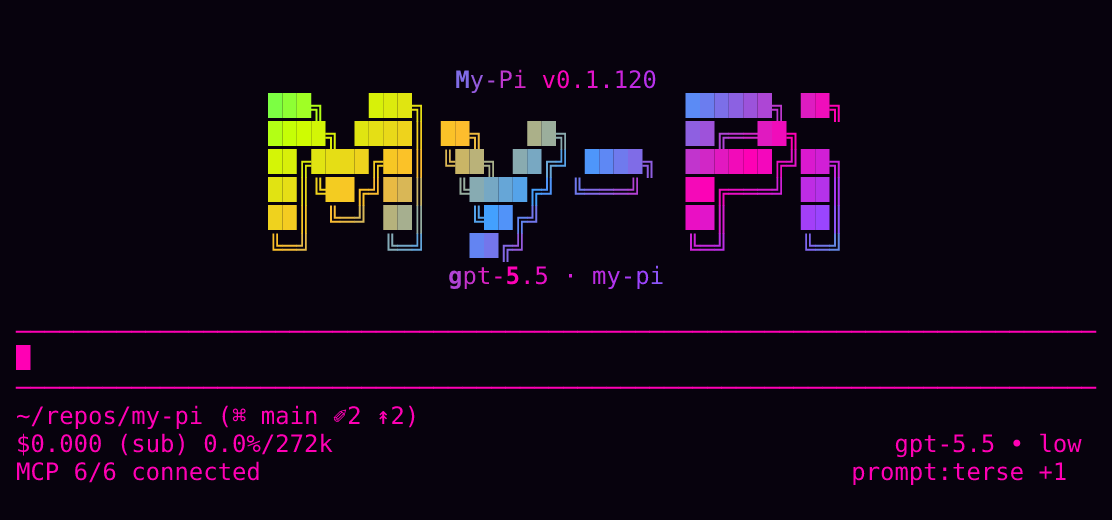
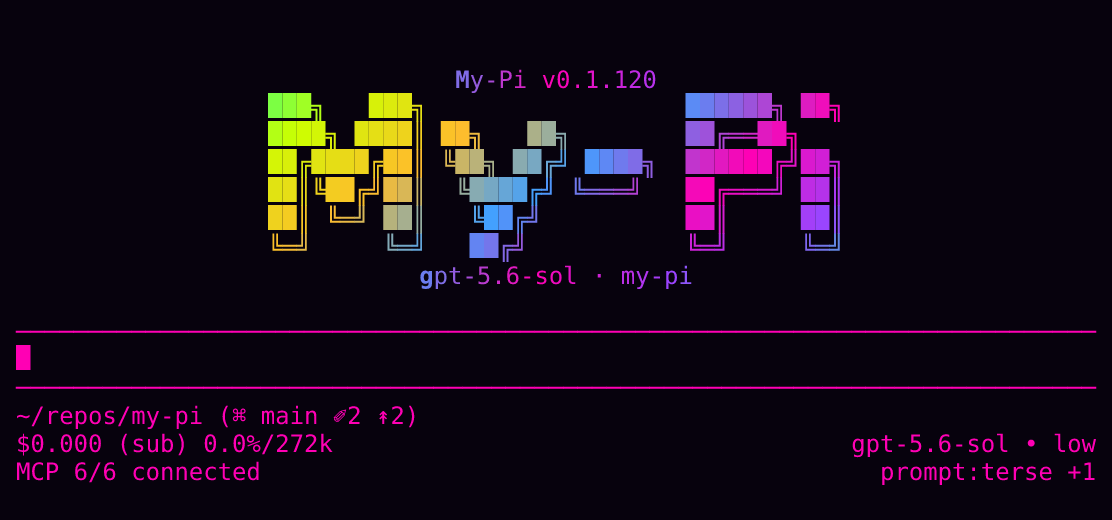
fix: align startup preview footer

Changed region(s): [[0.7644, 0.8308, 1.0, 0.9231], [0.3669, 0.4923, 0.6421, 0.5538]]

diff --git a/scripts/generate-startup-preview.ts b/scripts/generate-startup-preview.ts
@@ -20,7 +20,7 @@ const ANSI_PREFIX_PATTERN = new RegExp(`^${ESC}\\[[0-9;]*m`);
 const ANSI_CAPTURE_PREFIX_PATTERN = new RegExp(
 	`^${ESC}\\[([0-9;]*)m`,
 );
-const MODEL_ID = 'gpt-5.5';
+const MODEL_ID = 'gpt-5.6-sol';
 
 type Cell = {
 	char: string;
@@ -161,14 +161,17 @@ const header_lines: PreviewLine[] = render_startup_header(
 	align: index >= 2 && index <= 7 ? 'logo' : 'center',
 }));
 const FOOTER_WIDTH = 75;
+function align_footer_right(left: string, right: string): string {
+	return left.padEnd(FOOTER_WIDTH - right.length) + right;
+}
+
 const footer_lines: PreviewLine[] = [
 	'─'.repeat(FOOTER_WIDTH),
 	'█'.padEnd(FOOTER_WIDTH),
 	'─'.repeat(FOOTER_WIDTH),
 	'~/repos/my-pi (⌘ main ✐2 ↟2)',
-	'$0.000 (sub) 0.0%/272k'.padEnd(FOOTER_WIDTH - 14) +
-		`${MODEL_ID} • low`,
-	'MCP 6/6 connected'.padEnd(FOOTER_WIDTH - 17) + 'prompt:terse +1',
+	align_footer_right('$0.000 (sub) 0.0%/272k', `${MODEL_ID} • low`),
+	align_footer_right('MCP 6/6 connected', 'prompt:terse +1'),
 ].map((line) => ({
 	text: `\x1b[38;2;255;0;180m${line}\x1b[0m`,
 	align: 'left',
